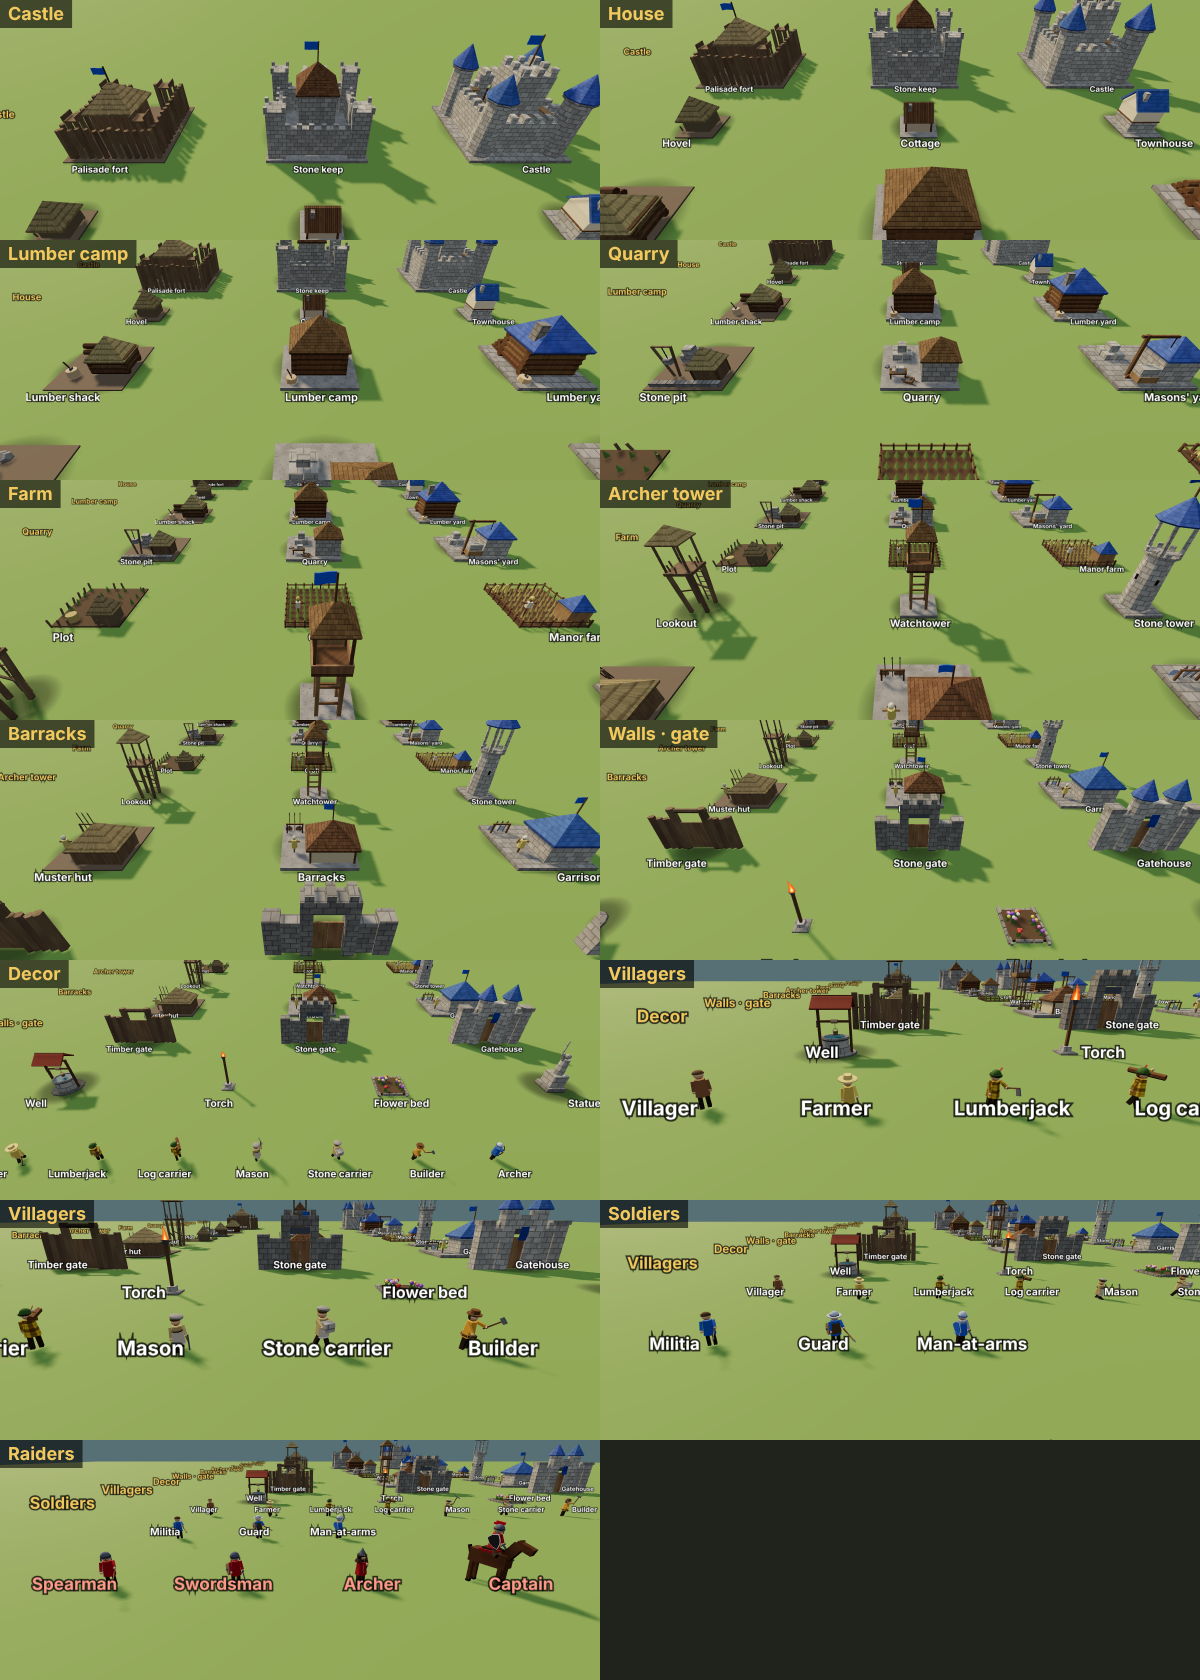
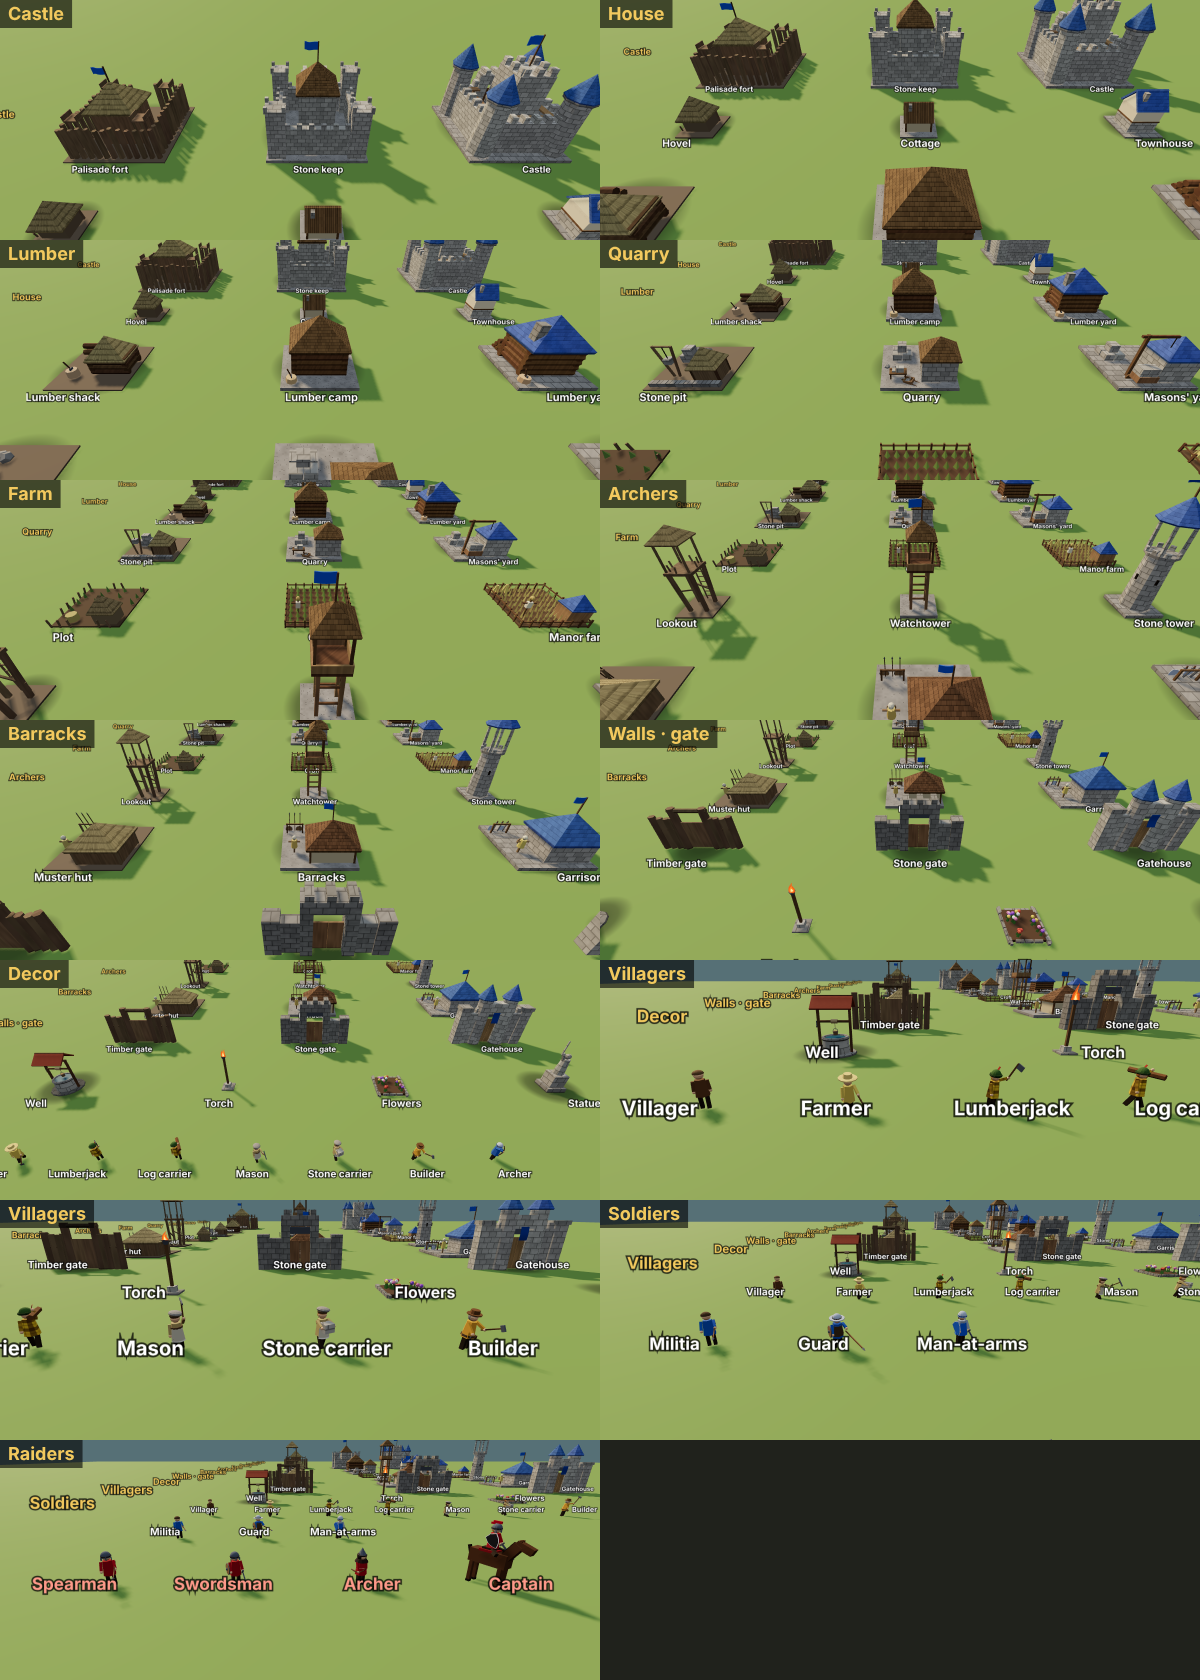
Tier-1 archer tower stands on the packed-earth slab like the other tier-1 buildings
Claude-Session: https://claude.ai/code/session_01AE8sRRsVdpH9ETfQvtppox

diff --git a/index.html b/index.html
@@ -1646,7 +1646,7 @@ const makeModel = (type, tier, plinth, mask, rot = 0, fixed = false) => {
 // stone bases fill their tiles exactly; this is how far each one's top sits above the building's ground level
 const PLINTH_TOP = { house: .1, tower: .2, castle: .2, lodge: .2, quarry: .2, barracks: .2 };
 // tier 1 stands on a packed-earth slab like the palisade fort's yard, filling its tiles so neighbours meet edge to edge
-const SLAB = { house: 1, lodge: 1, quarry: 1, castle: 1, barracks: 1 }, SLAB_TOP = .08;
+const SLAB = { house: 1, lodge: 1, quarry: 1, castle: 1, barracks: 1, tower: 1 }, SLAB_TOP = .08;
 const plinthTop = (type, tier) => tier === 1 ? (SLAB[type] ? SLAB_TOP : null) : PLINTH_TOP[type];
 // a stone-based building placed edge to edge with another settles at the height that makes the two stone tops flush,
 // so a row of buildings reads as one continuous platform (only if that is within reach of the ground it stands on)

diff --git a/CLAUDE.md b/CLAUDE.md
@@ -23,7 +23,7 @@ The whole game is currently one self-contained file: `index.html` (~165 KB, thre
 
 ## Style rules (from Jack)
 - UI text is minimal: a few words, no explanations (hints like "Pick a spot", "Occupied", "Need [wood]5"; banners "Night 2 · 8 raiders"; log lines "<b>Cottage</b> ready"). Keep new text in this style.
-- Colour code: town = blue (flags, soldiers, tier-3 roofs), raiders = red, villagers = yellows. Roofs by tier: tier 1 straw thatch (`M.thatchOld`: strands radiate from the peak by object-space angle, level course lines by world y), tier 2 compact rounded logs from ridge to eave like the palisade (`logRoof`: `M.thatch` for pyramids: staggered wooden shingles (rows by world height); `M.logGable` for gable slabs by local x; each has its own `customProgramCacheKey`), tier 3 blue tiles (`M.roofBlue`, `roofGrit`). Every roof has a thick eave: `pyramid()` and `coneRoof()` (blue tower cones) return a group with the roof plus a band under its edge; gable slabs are 0.1 m thick. Bases by tier: tier 1 house, lumber camp, quarry and castle stand on a packed-earth slab (`M.court`, like the palisade fort's yard; `SLAB`, top `SLAB_TOP` .08, added in `makeModel`) that fills the footprint, so the fort's palisade sits on it and neighbours join up; tier 2 bases are plain grey stone (`M.plainStone`, rock grit, no block joints); tier 3 bases keep the masonry `M.stone`. `plinthTop(type, tier)` gives the top height for `snapToNeighbours` (placement, within 0.8 m) and `stoneAt` (paths stop at any base's edge); Bases (footprint-wide meshes below ground level) take one shade per tier in `makeModel`'s tinting, so neighbours match. `planFlatten` may lower ground on an edge shared with a locked neighbour down to the new building's level (never raise it), so no base gets buried; the T1 slab is 1 m deep. `flushHeight` finds the matching height, and `settleBase` re-levels a building after each upgrade so its new base stays flush with neighbours whatever their tier (only within 0.3 m; much higher or lower ground is left alone). Tier 1 towers and farms have no base.
+- Colour code: town = blue (flags, soldiers, tier-3 roofs), raiders = red, villagers = yellows. Roofs by tier: tier 1 straw thatch (`M.thatchOld`: strands radiate from the peak by object-space angle, level course lines by world y), tier 2 compact rounded logs from ridge to eave like the palisade (`logRoof`: `M.thatch` for pyramids: staggered wooden shingles (rows by world height); `M.logGable` for gable slabs by local x; each has its own `customProgramCacheKey`), tier 3 blue tiles (`M.roofBlue`, `roofGrit`). Every roof has a thick eave: `pyramid()` and `coneRoof()` (blue tower cones) return a group with the roof plus a band under its edge; gable slabs are 0.1 m thick. Bases by tier: tier 1 house, lumber camp, quarry, castle, barracks and archer tower stand on a packed-earth slab (`M.court`, like the palisade fort's yard; `SLAB`, top `SLAB_TOP` .08, added in `makeModel`) that fills the footprint, so the fort's palisade sits on it and neighbours join up; tier 2 bases are plain grey stone (`M.plainStone`, rock grit, no block joints); tier 3 bases keep the masonry `M.stone`. `plinthTop(type, tier)` gives the top height for `snapToNeighbours` (placement, within 0.8 m) and `stoneAt` (paths stop at any base's edge); Bases (footprint-wide meshes below ground level) take one shade per tier in `makeModel`'s tinting, so neighbours match. `planFlatten` may lower ground on an edge shared with a locked neighbour down to the new building's level (never raise it), so no base gets buried; the T1 slab is 1 m deep. `flushHeight` finds the matching height, and `settleBase` re-levels a building after each upgrade so its new base stays flush with neighbours whatever their tier (only within 0.3 m; much higher or lower ground is left alone). Tier 1 farms have no base.
 - Medieval look over clean/modern: crooked timbers, daub, thatch, small shuttered windows.
 
 ## Recent model notes
